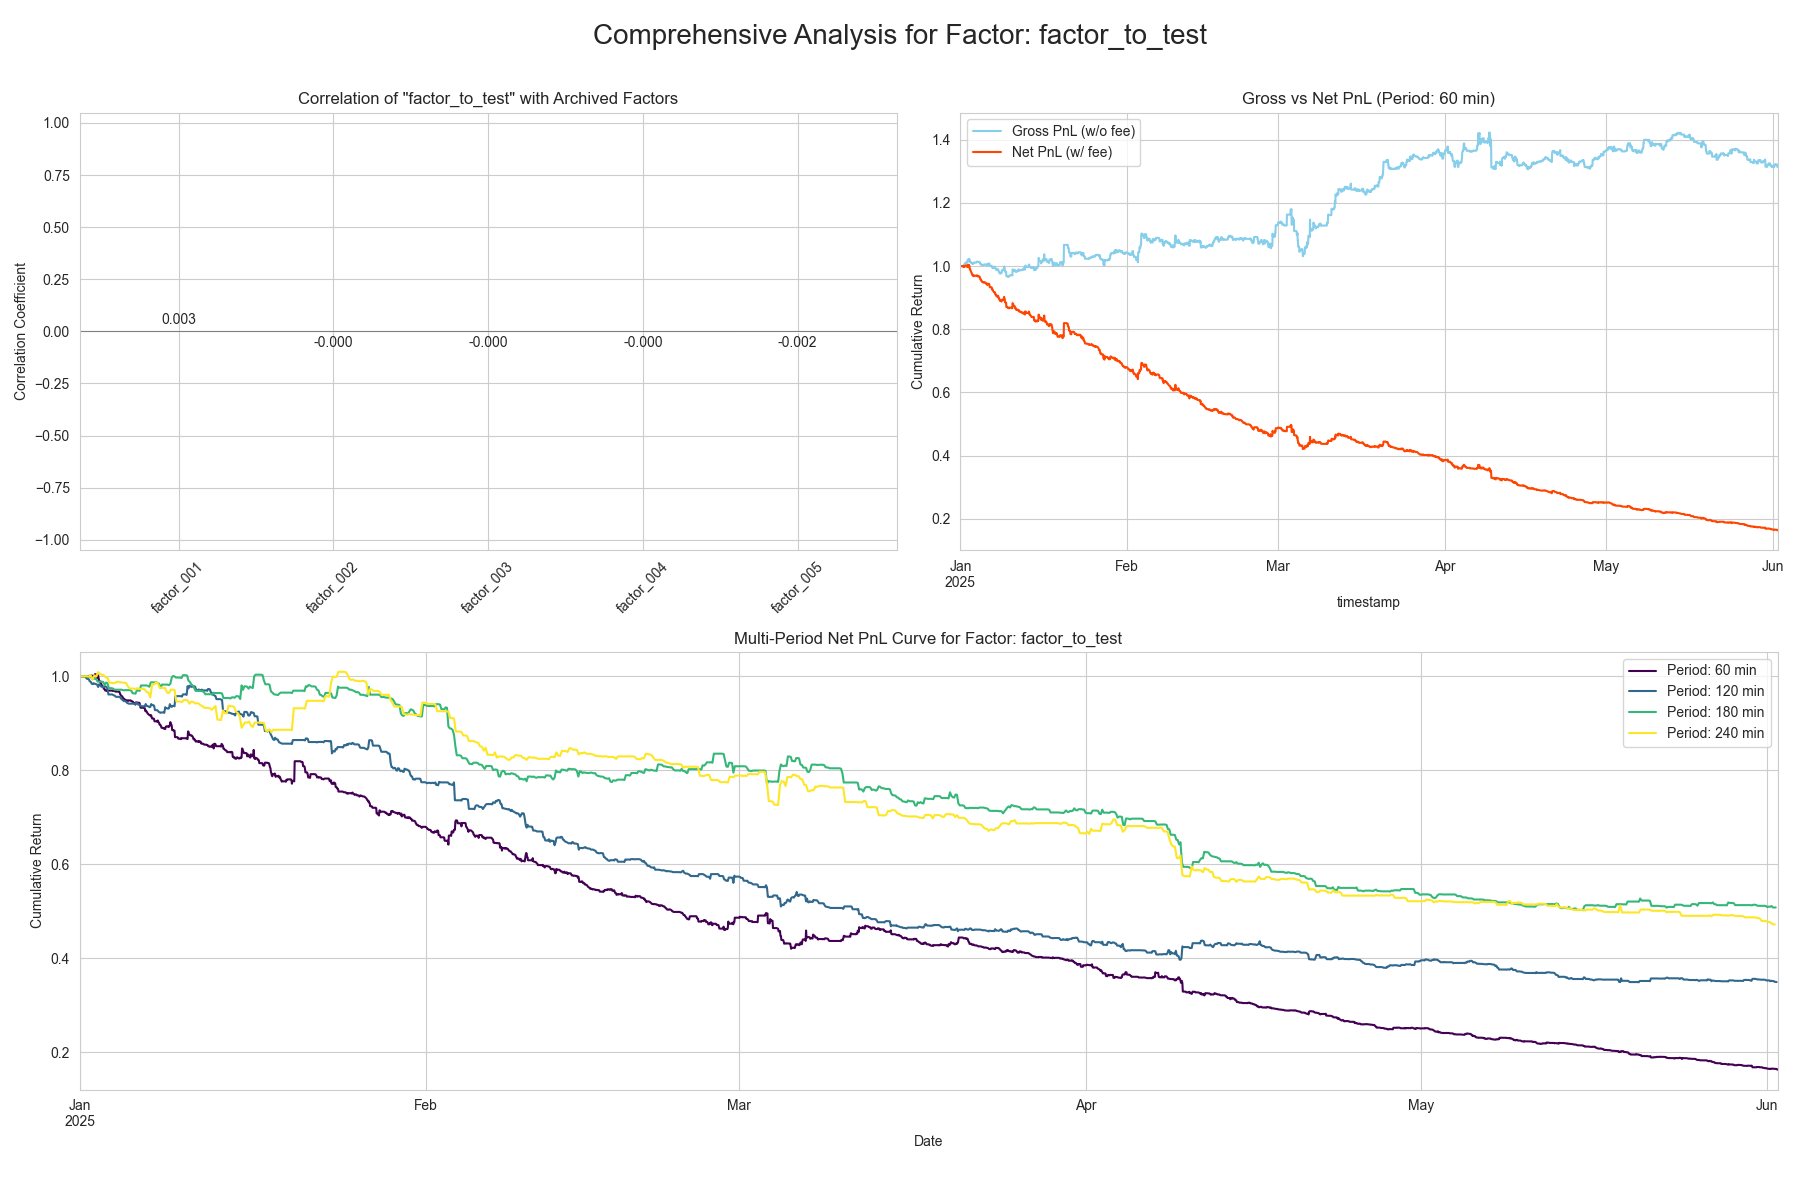
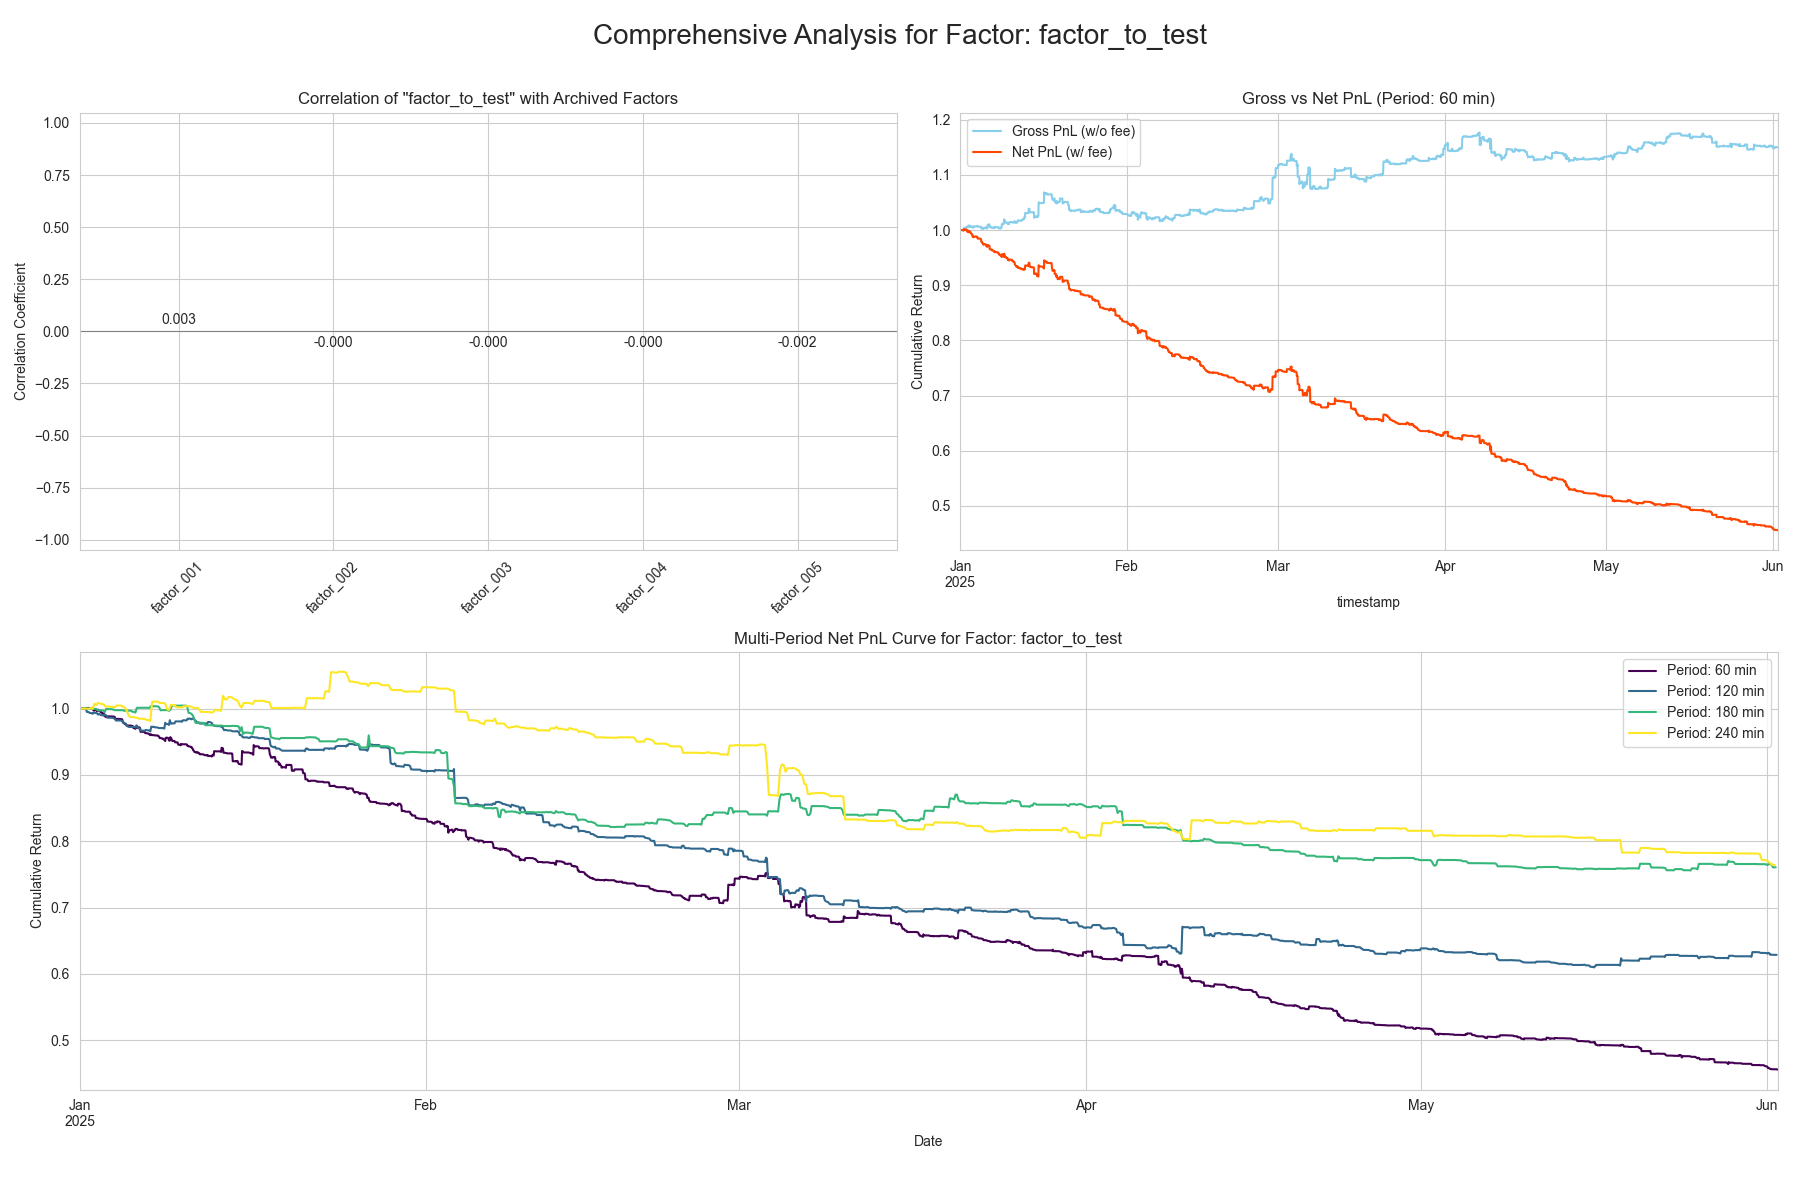
Dynamic Position Attempt

diff --git a/backtest/strategies/strategy_combined_factors.py b/backtest/strategies/strategy_combined_factors.py
@@ -9,11 +9,11 @@ def generate_signals(df, factor_config_path, quantile_window, long_quantile, sho
     策略逻辑:
     1. 从 JSON 配置文件加载所有因子函数。
     2. 计算所有因子的值，并进行滚动标准化，然后等权相加得到一个综合因子。
-    3. 计算综合因子的滚动分位数，作为动态的交易阈值。
-    4. 生成交易信号 (与因子分析脚本逻辑对齐):
-       - combined_factor <= q_low: 做多 (signal = 1)
-       - combined_factor >= q_high: 做空 (signal = -1)
-       - 否则: 空仓 (signal = 0)
+    3. 计算综合因子的滚动分位数，定义交易区间。
+    4. **新增：根据因子值在交易区间内的相对强度，计算动态仓位。**
+       - 信号强度与因子值超过开仓阈值的程度成正比。
+       - 例如，因子值越接近分布的底部，做多仓位越大（趋近于1）。
+       - 因子值越接近分布的顶部，做空仓位越大（趋近于-1）。
     5. 信号延迟一期生效，以避免使用未来数据。
 
     :param df: 包含OHLCV数据的DataFrame。
@@ -51,18 +51,36 @@ def generate_signals(df, factor_config_path, quantile_window, long_quantile, sho
     # 2. 等权相加 (fillna(0)可以处理计算初期的NaN，以及某些因子在某些点上无值的情况)
     df['combined_factor'] = df_factors.sum(axis=1, skipna=True).fillna(0)
     
-    # 3. 根据滚动分位数生成交易信号 (新逻辑，与因子分析对齐)
-    # 仅当组合因子值足够极端时才产生信号，可以有效过滤噪音，减少不必要的交易。
+    # 3. 计算交易信号的动态边界
+    # q_low/q_high 是开仓的“门槛”
     df['q_low'] = df['combined_factor'].rolling(window=quantile_window, min_periods=quantile_window // 2).quantile(long_quantile)
     df['q_high'] = df['combined_factor'].rolling(window=quantile_window, min_periods=quantile_window // 2).quantile(short_quantile)
+    # q_min/q_max 定义了仓位从0到100%的完整区间，使用1%和99%分位数比直接用min/max更稳健，可以避免极端异常值的干扰。
+    df['q_min'] = df['combined_factor'].rolling(window=quantile_window, min_periods=quantile_window // 2).quantile(0.01)
+    df['q_max'] = df['combined_factor'].rolling(window=quantile_window, min_periods=quantile_window // 2).quantile(0.99)
     
     df['signal'] = 0.0
-    # 当组合因子值低于下分位数时，我们认为这是强烈的买入信号
-    df.loc[df['combined_factor'] <= df['q_low'], 'signal'] = 1.0
-    # 当组合因子值高于上分位数时，我们认为这是强烈的卖出信号
-    df.loc[df['combined_factor'] >= df['q_high'], 'signal'] = -1.0
+
+    # 4. 计算动态仓位
+    # 做多仓位：当因子值低于开仓阈值(q_low)时
+    long_cond = df['combined_factor'] <= df['q_low']
+    long_numerator = df['q_low'] - df['combined_factor']
+    long_denominator = df['q_low'] - df['q_min']
+    long_denominator.replace(0, np.nan, inplace=True) # 避免除以零
+    long_strength = (long_numerator / long_denominator).clip(0, 1) # 归一化并限制在[0, 1]
+    df.loc[long_cond, 'signal'] = long_strength
+
+    # 做空仓位：当因子值高于开仓阈值(q_high)时
+    short_cond = df['combined_factor'] >= df['q_high']
+    short_numerator = df['combined_factor'] - df['q_high']
+    short_denominator = df['q_max'] - df['q_high']
+    short_denominator.replace(0, np.nan, inplace=True) # 避免除以零
+    short_strength = (short_numerator / short_denominator).clip(0, 1) # 归一化并限制在[0, 1]
+    df.loc[short_cond, 'signal'] = -short_strength
     
-    # 4. 信号延迟一期生效，避免使用未来数据
+    df['signal'] = df['signal'].fillna(0) # 将计算中可能出现的NaN填充为0
+    
+    # 5. 信号延迟一期生效，避免使用未来数据
     df['signal'] = df['signal'].shift(1).fillna(0)
     
     print(f"多因子组合策略信号已生成。信号分布:\n{df['signal'].value_counts(normalize=True).round(2)}")

diff --git a/run_factor_analysis.py b/run_factor_analysis.py
@@ -35,14 +35,29 @@ def run_single_factor_analysis(df, factor_func, period_min, transaction_fee_bps=
     # 3. 在完整的1分钟数据上计算因子值
     df['factor'] = factor_func(df)
     
-    # 新增：基于滚动分位数的信号生成
-    # 当因子值低于10%分位数时做多(信号为1)，高于90%分位数时做空(信号为-1)
+    # 更新：基于滚动分位数的动态信号生成 (与策略回测逻辑对齐)
+    # 3.1 计算交易信号的动态边界
     df['q_low'] = df['factor'].rolling(window=quantile_window, min_periods=quantile_window // 2).quantile(long_quantile)
     df['q_high'] = df['factor'].rolling(window=quantile_window, min_periods=quantile_window // 2).quantile(short_quantile)
+    df['q_min'] = df['factor'].rolling(window=quantile_window, min_periods=quantile_window // 2).quantile(0.01)
+    df['q_max'] = df['factor'].rolling(window=quantile_window, min_periods=quantile_window // 2).quantile(0.99)
     
     df['signal'] = 0.0
-    df.loc[df['factor'] <= df['q_low'], 'signal'] = 1.0
-    df.loc[df['factor'] >= df['q_high'], 'signal'] = -1.0
+
+    # 3.2 计算动态仓位
+    long_cond = df['factor'] <= df['q_low']
+    long_numerator = df['q_low'] - df['factor']
+    long_denominator = df['q_low'] - df['q_min']
+    long_denominator.replace(0, np.nan, inplace=True)
+    long_strength = (long_numerator / long_denominator).clip(0, 1)
+    df.loc[long_cond, 'signal'] = long_strength
+
+    short_cond = df['factor'] >= df['q_high']
+    short_numerator = df['factor'] - df['q_high']
+    short_denominator = df['q_max'] - df['q_high']
+    short_denominator.replace(0, np.nan, inplace=True)
+    short_strength = (short_numerator / short_denominator).clip(0, 1)
+    df.loc[short_cond, 'signal'] = -short_strength
 
     # 4. 按换仓周期进行采样，只在换仓点进行分析
     # 使用resample确保我们只在每个周期的开始点（如整点）进行分析。
@@ -50,7 +65,7 @@ def run_single_factor_analysis(df, factor_func, period_min, transaction_fee_bps=
         'factor': 'first',      # 取10:00的因子值
         'signal': 'first',      # 取10:00的交易信号
         'future_ret': 'first'   # 取10:00时计算的未来60分钟收益
-    }).dropna()
+    }).fillna({'signal': 0}).dropna(subset=['factor', 'future_ret']) # 填充信号中的NaN并保留有效数据
 
     # 5. 计算IC、Rank IC 和 因子换手率 (Turnover)
     ic = analysis_df[['factor', 'future_ret']].corr().iloc[0, 1]
@@ -77,8 +92,9 @@ def run_single_factor_analysis(df, factor_func, period_min, transaction_fee_bps=
     analysis_df['factor_return'] = analysis_df['signal'].shift(1) * analysis_df['future_ret']
     
     # 6.2 计算交易成本 (与持仓变化成正比)
-    position_change = analysis_df['signal'].diff().abs()
-    transaction_costs = position_change * fee_rate
+    # 更新：与策略回测引擎的成本计算逻辑对齐 (每期都重新开仓)
+    prev_signal = analysis_df['signal'].shift(1).fillna(0)
+    transaction_costs = (prev_signal.abs() + analysis_df['signal'].abs()) * fee_rate
     analysis_df['net_factor_return'] = analysis_df['factor_return'] - transaction_costs
 
     # 6.4 计算年化夏普率

diff --git a/backtest/backtest_engine.py b/backtest/backtest_engine.py
@@ -1,13 +1,14 @@
 import pandas as pd
 import numpy as np
 
-def run_backtest(df_with_signals, initial_capital, fee_bps, period_min):
+def run_backtest(df_with_signals, initial_capital, fee_bps, period_min, leverage=1.0):
     """
     一个简单的向量化回测引擎，适配指定换仓周期。
     :param df_with_signals: 必须包含 'close' 和 'signal' 列的DataFrame。
     :param initial_capital: 初始资金。
     :param fee_bps: 单边交易手续费（基点）。
     :param period_min: 换仓周期（分钟）。
+    :param leverage: 杠杆/仓位乘数。
     :return: 包含回测结果的字典。
     """
     df = df_with_signals.copy()
@@ -15,7 +16,7 @@ def run_backtest(df_with_signals, initial_capital, fee_bps, period_min):
     
     # 1. 按换仓周期进行采样
     # 策略文件生成的signal已经是t-1时刻的信号，决定t时刻的持仓
-    backtest_df = df.resample(f'{period_min}T').agg({
+    backtest_df = df.resample(f'{period_min}min').agg({
         'close': 'first',
         'signal': 'first'
     }).dropna()
@@ -24,16 +25,15 @@ def run_backtest(df_with_signals, initial_capital, fee_bps, period_min):
     backtest_df['ret'] = backtest_df['close'].pct_change()
     
     # 3. 计算策略毛收益 (信号在策略文件中已经shift(1)，所以这里直接使用)
-    backtest_df['strategy_ret'] = backtest_df['signal'] * backtest_df['ret']
+    # 策略收益 = 信号强度 * 资产收益 * 杠杆
+    backtest_df['strategy_ret'] = backtest_df['signal'] * backtest_df['ret'] * leverage
     
     # 4. 计算交易成本 (核心修正)
     # 逻辑：每个周期都必须先平掉上期仓位，再开立本期新仓位。
     # 上一期的仓位信号
     prev_signal = backtest_df['signal'].shift(1).fillna(0)
     # 总交易成本 = 平掉上期仓位的成本 + 开立本期仓位的成本
-    # 例如: 上期为1(多)，本期为-1(空)。交易量为 abs(1)平仓 + abs(-1)开仓 = 2倍仓位
-    # 例如: 上期为1(多)，本期为1(多)。交易量为 abs(1)平仓 + abs(1)开仓 = 2倍仓位
-    total_traded_ratio = prev_signal.abs() + backtest_df['signal'].abs()
+    total_traded_ratio = (prev_signal.abs() + backtest_df['signal'].abs()) * leverage
     backtest_df['costs'] = total_traded_ratio * fee_rate
     
     # 5. 计算净收益

diff --git a/run_strategy_backtest.py b/run_strategy_backtest.py
@@ -8,17 +8,20 @@ from backtest.backtest_engine import run_backtest
 from backtest.utils import load_data_in_period, ensure_data_is_available # 统一使用工具函数
 
 # --- 配置区 (与因子分析脚本保持相似结构) ---
-SYMBOL = 'BTCUSDT'
+SYMBOL = 'ETHUSDT'
 START_DATE = '2025-01-01'
 END_DATE = '2025-06-01'
-INITIAL_CAPITAL = 100000
-TRANSACTION_FEE_BPS = 10   # 手续费 (bps), e.g., 2 bps = 0.02%
+INITIAL_CAPITAL = 2000
+TRANSACTION_FEE_BPS = 0   # 手续费 (bps), e.g., 2 bps = 0.02%
 REBALANCE_PERIOD_MIN = 60 # 换仓周期（分钟）
 
 # 新增：交易信号生成阈值 (与因子分析脚本对齐)
 QUANTILE_WINDOW = 24 * 60    # 用于计算分位数信号的滚动窗口 (1440分钟 = 1天)
 LONG_ENTRY_QUANTILE = 0.10   # 做多信号的因子值分位数阈值 (e.g., 0.10 for bottom 10%)
 SHORT_ENTRY_QUANTILE = 0.90  # 做空信号的因子值分位数阈值 (e.g., 0.90 for top 10%)
+
+# 新增：最大杠杆/仓位。策略的实际仓位 = 信号强度 * LEVERAGE
+LEVERAGE = 1.0 # 1.0 表示最强信号时开满仓，0.5表示最强信号时开半仓
 
 # --- 路径配置 (与因子分析脚本保持一致) ---
 project_root = os.path.dirname(os.path.abspath(__file__))
@@ -58,7 +61,8 @@ if __name__ == '__main__':
             df_with_signals,
             INITIAL_CAPITAL,
             TRANSACTION_FEE_BPS,
-            REBALANCE_PERIOD_MIN
+            REBALANCE_PERIOD_MIN,
+            leverage=LEVERAGE
         )
 
         # 5. 打印和可视化结果 (与因子分析脚本的输出风格统一)
